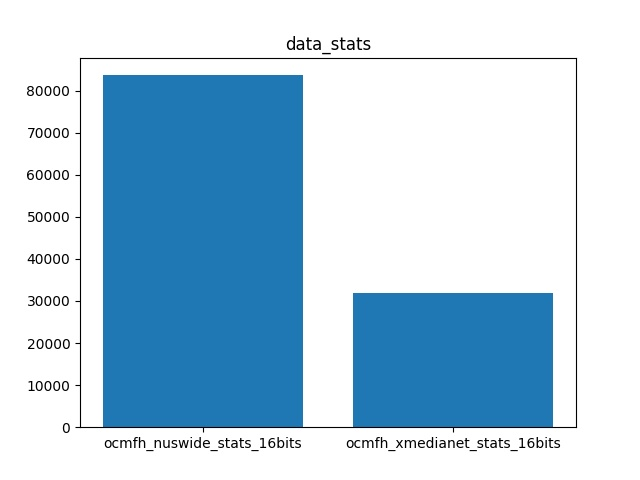
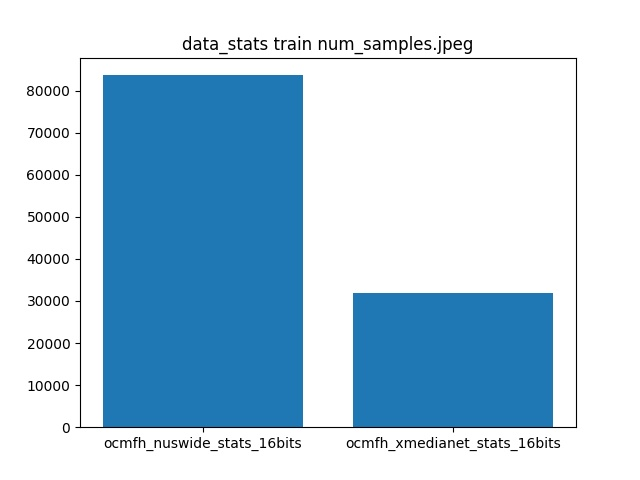
fixed graph title

Changed region(s): [[0.2812, 0.0625, 0.75, 0.125]]

diff --git a/Framework/compare.py b/Framework/compare.py
@@ -34,7 +34,7 @@ class Comparator:
             values = [s[subtag1] for s in values]
             if subtag2 != '':
                 values = [s[subtag2] for s in values]
-        plt.title(tag)
+        plt.title('{} {} {}.jpeg'.format(tag, subtag1, subtag2))
         plt.bar(labels, values)
         outfile = path.join(self.outdir, '{} {} {}.jpeg'.format(tag, subtag1, subtag2))
         plt.savefig(outfile)
